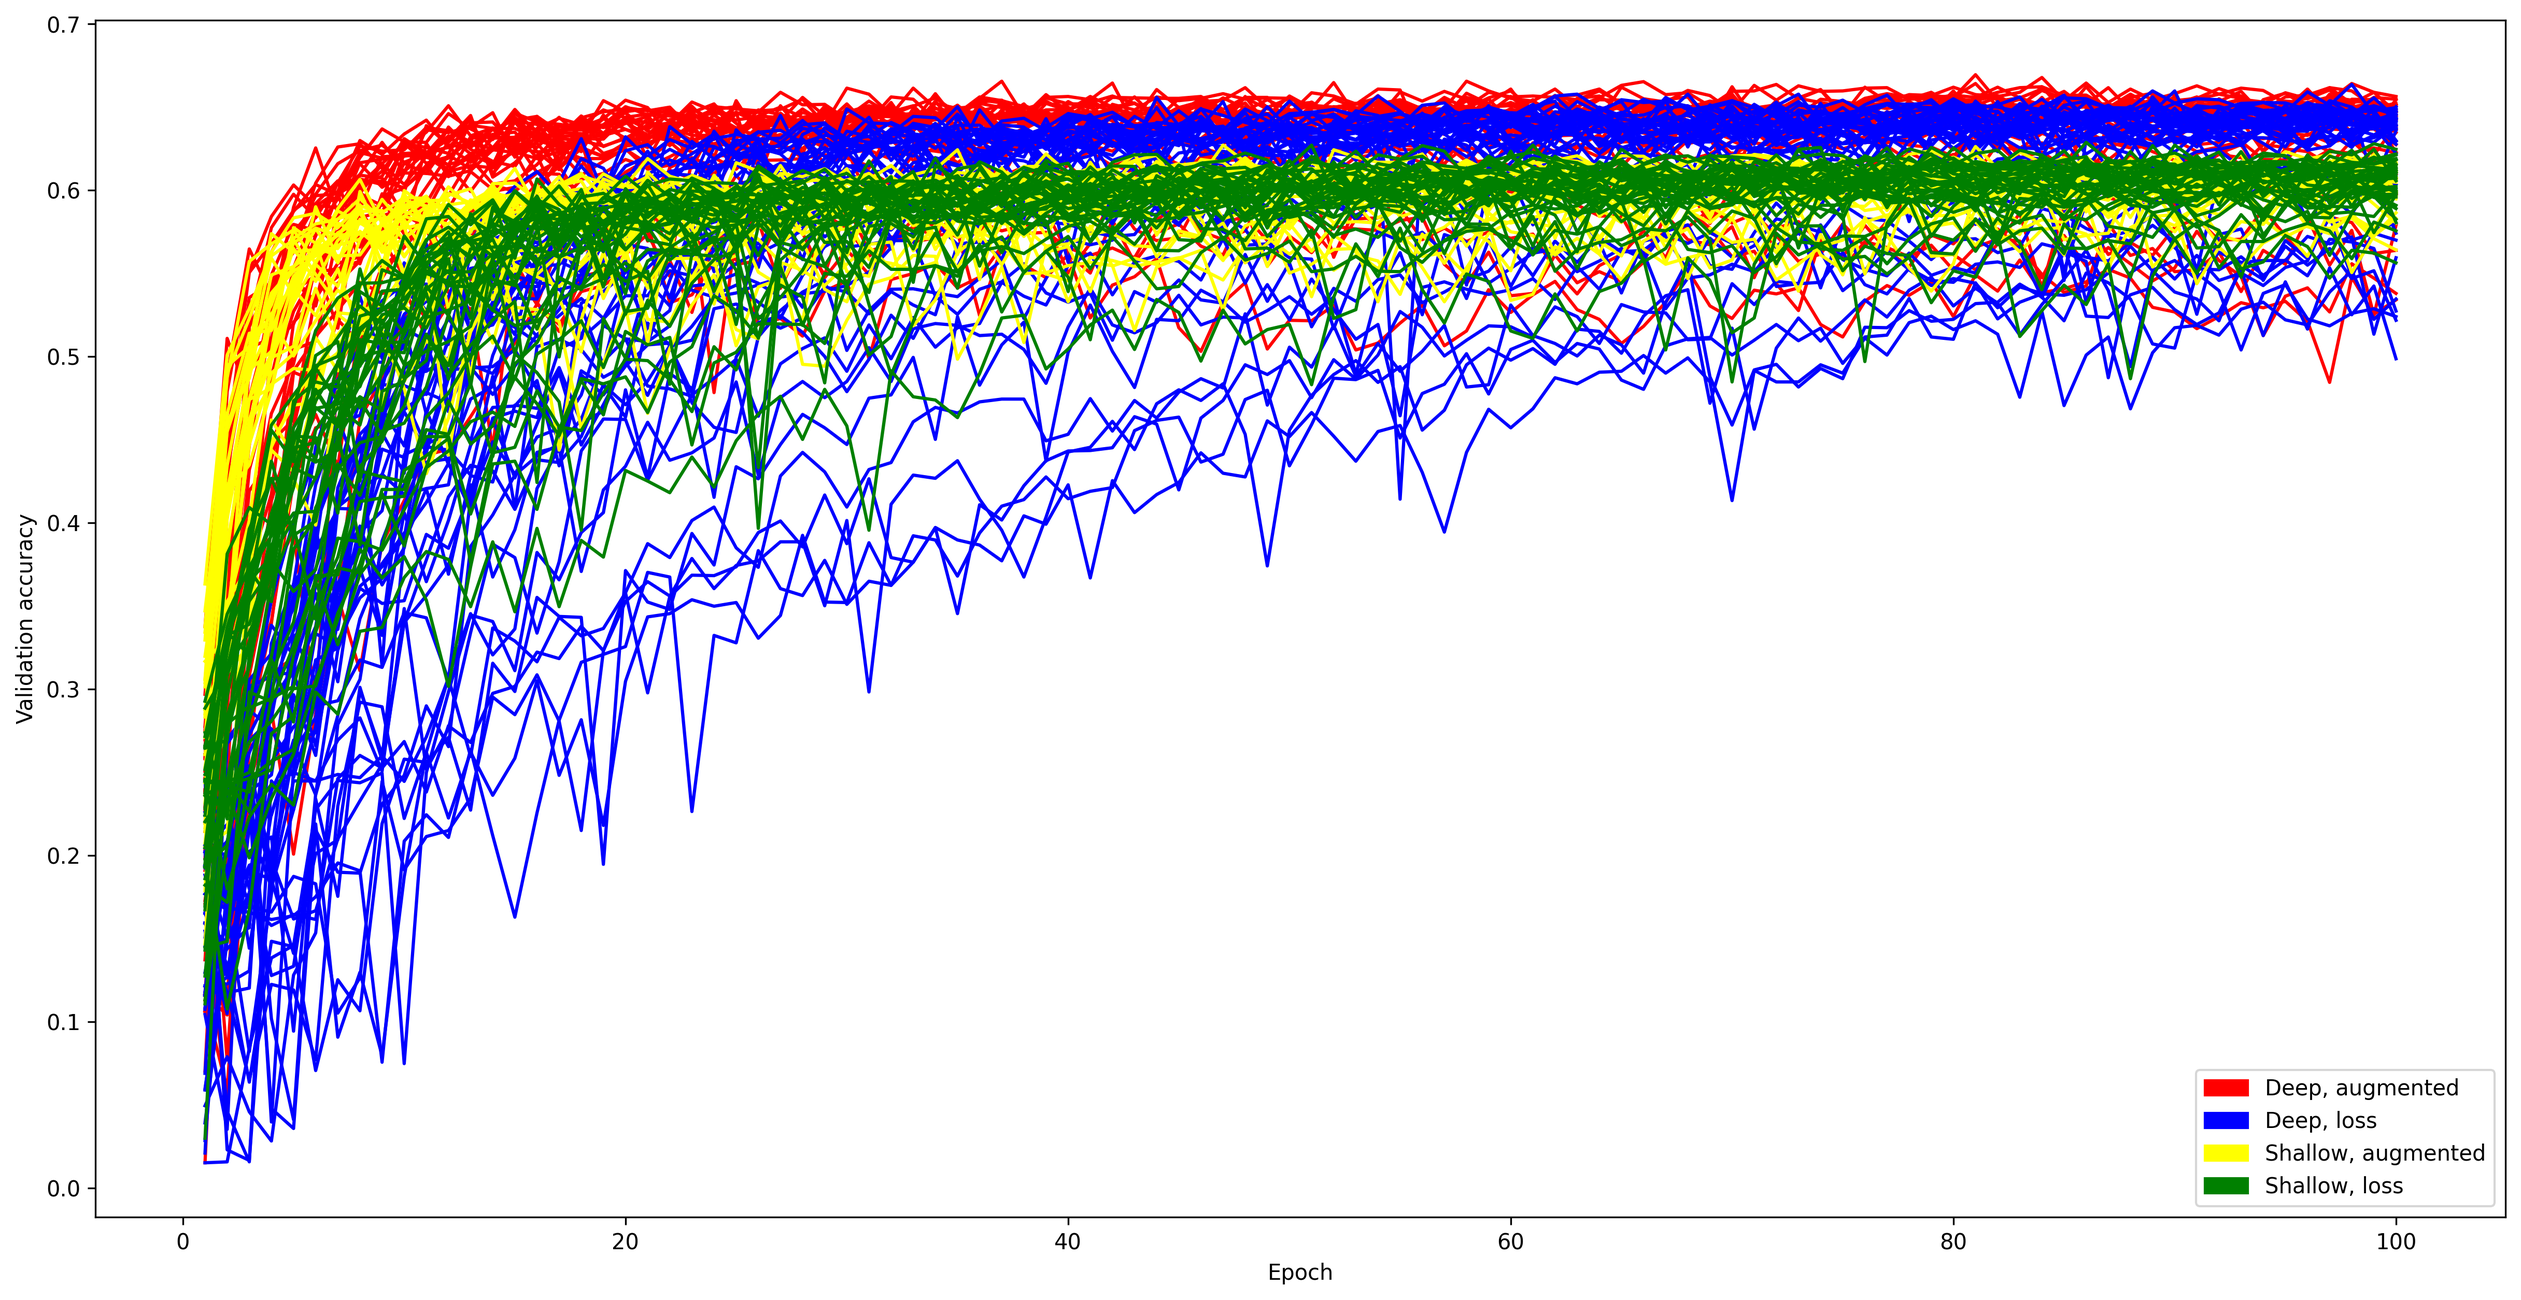
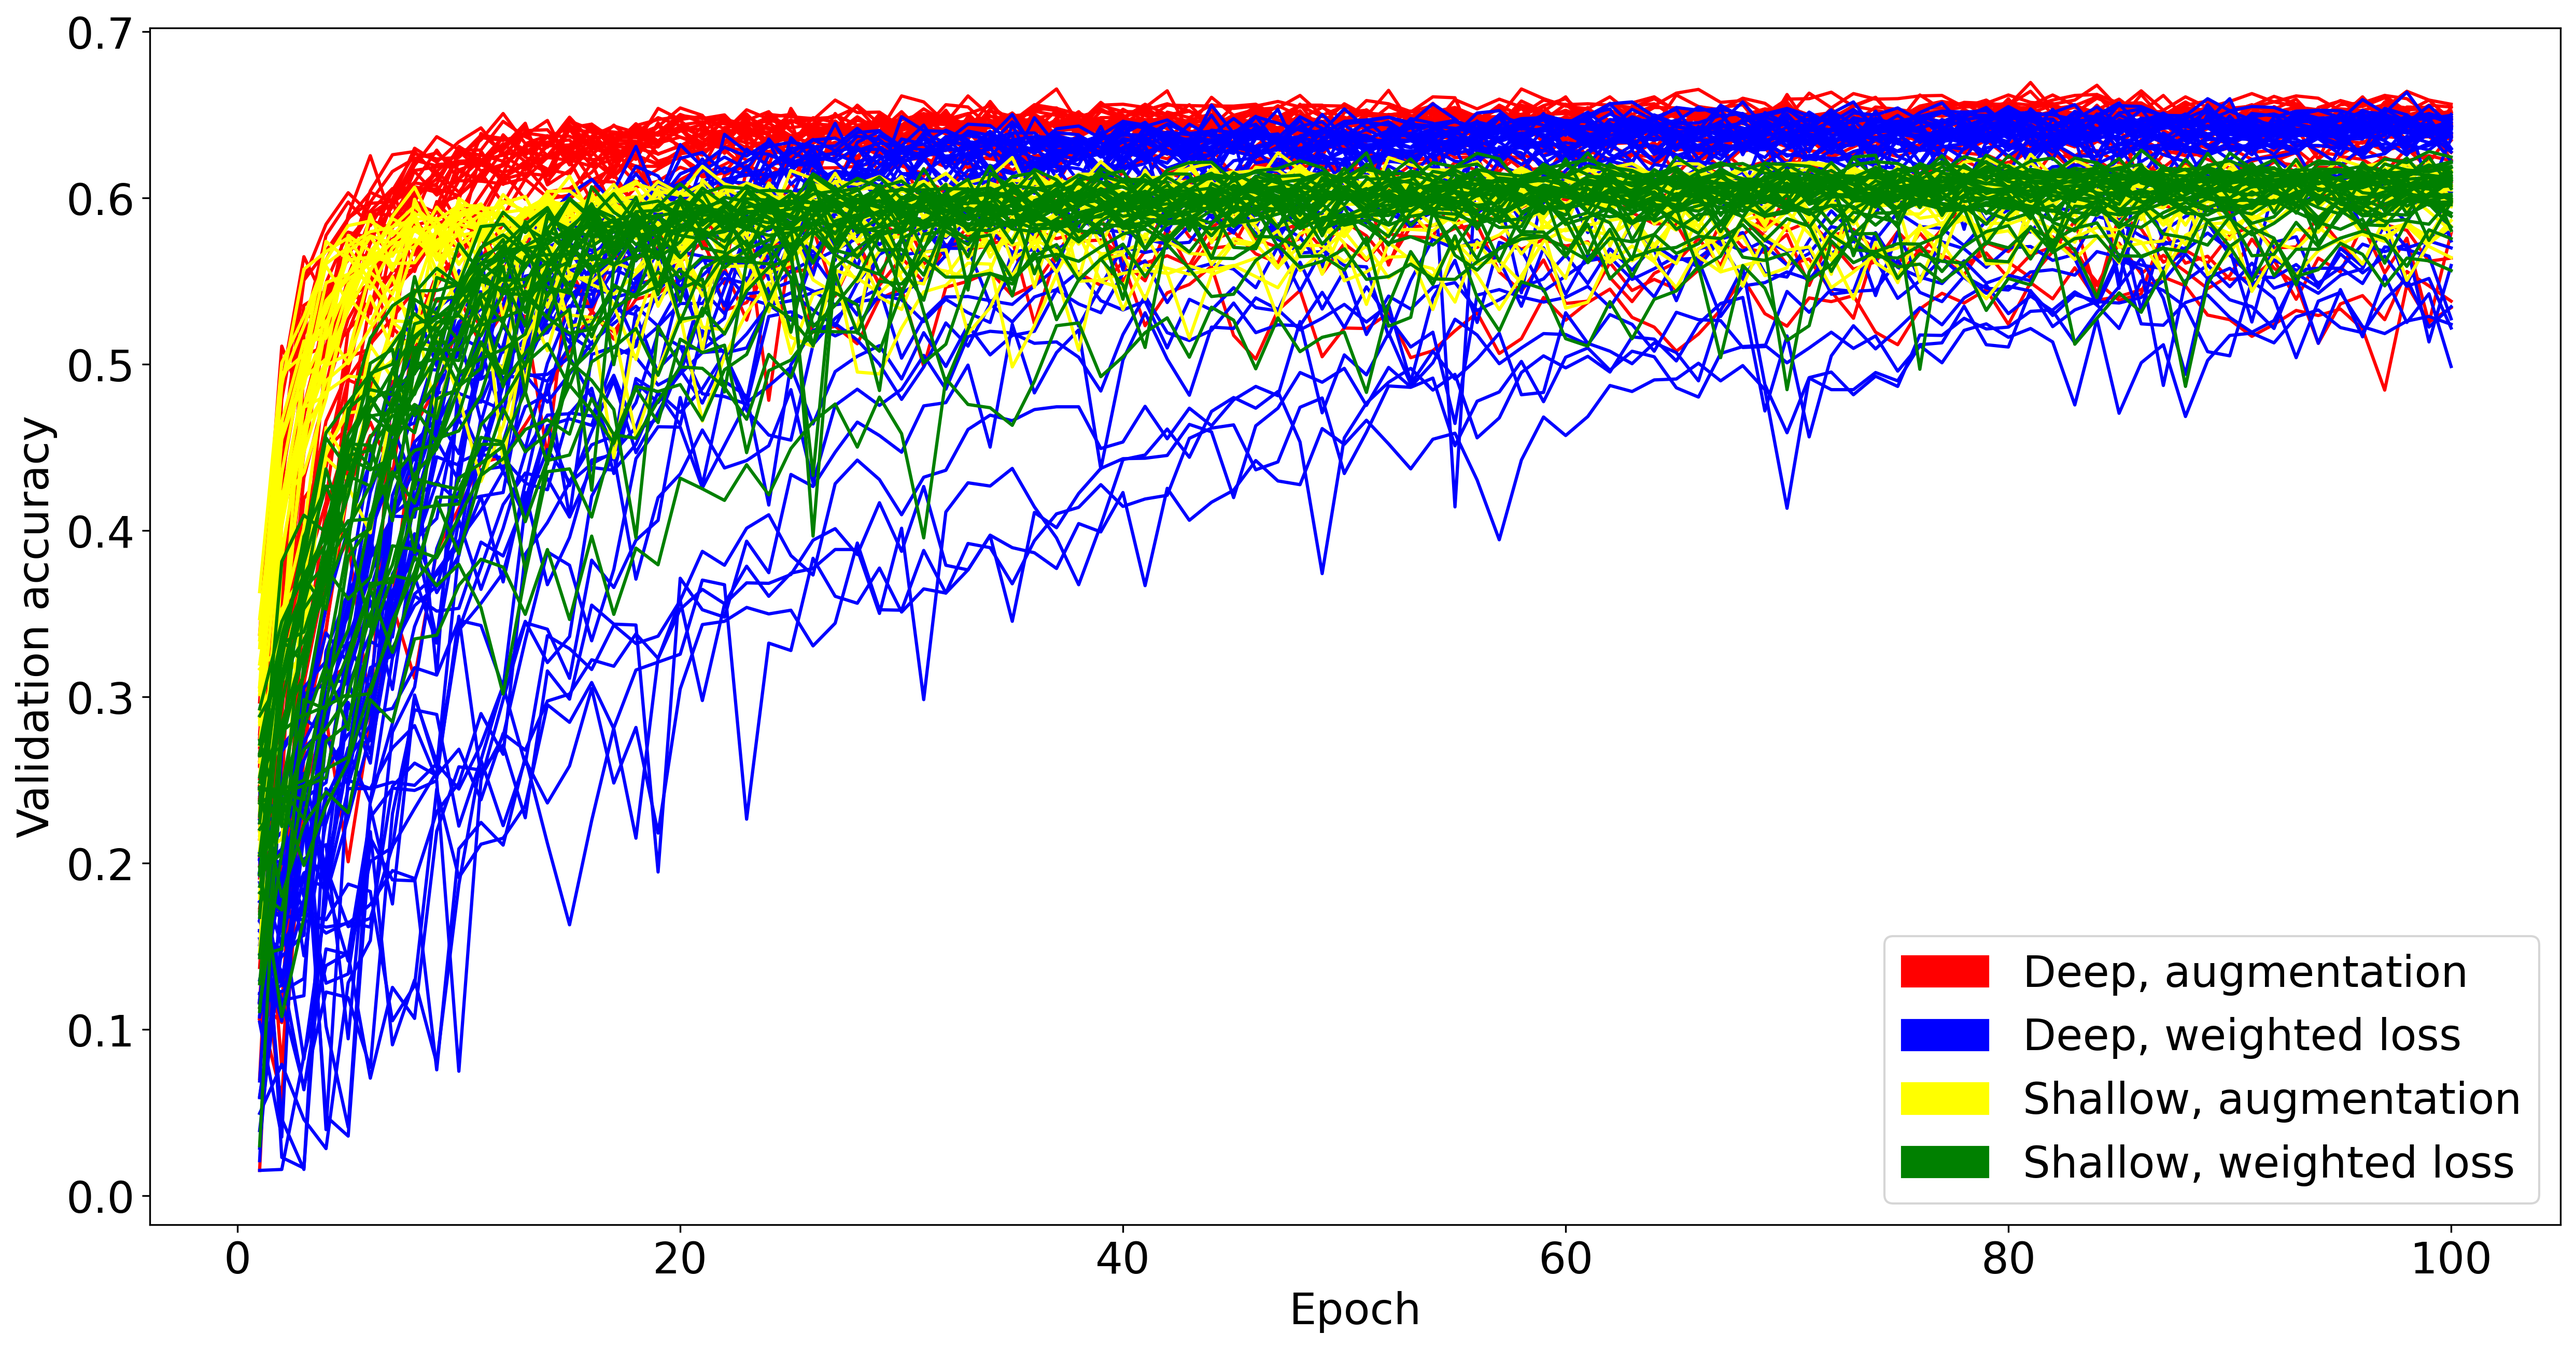
updated plotting

diff --git a/Utilities.py b/Utilities.py
@@ -11,6 +11,7 @@ from IPython.display import display
 #from Dataset import Dataset
 
 oneColumnFigureWidth = 10 # For latex
+twoColumnFigureWidth = 20 # For latex
 
 # def plotTrainValResults(history, folder, name):
 def plotTrainValResults(data, folder, name):
@@ -52,7 +53,7 @@ def plotTopOneConfusionMatrix(labelPrediction, labelTrue, labelsDict, fileName):
 
     # Plot confusion matrix
     plt.figure(figsize = (oneColumnFigureWidth, 5))
-    sn.set(font_scale=1.4)
+    sn.set(font_scale=2.0)
     sn.heatmap(matrixPandas, cmap = 'OrRd', annot=True, annot_kws={"size": 16}, fmt='.2f') # font size
     plt.savefig(fileName + ".png", dpi = 300, bbox_inches='tight')
 
@@ -77,10 +78,14 @@ def plotDatasetImages(fileName, images, labels = None):
     plt.clf() 
 
 def plotSummary(fileName, classNames, countsPerClass):
-    fig = plt.figure(figsize = (oneColumnFigureWidth, 5))
+    fontSize = 15
+    plt.figure(figsize = (oneColumnFigureWidth, 5))
     plt.bar(classNames, countsPerClass, width = 0.4)  
-    plt.xlabel("Emotions")
-    plt.ylabel("Number of samples")
+    plt.xticks(fontsize=fontSize)
+    plt.yticks(fontsize=fontSize)
+    #ax.tick_params(axis ='both', which ='both', labelsize = 20)
+    plt.xlabel("Emotions", fontsize=fontSize)
+    plt.ylabel("Number of samples",fontsize=fontSize)
     plt.savefig(fileName + ".png", dpi = 300, bbox_inches='tight')
     plt.close()
     plt.cla()
@@ -183,13 +188,16 @@ def plotTrainingResults(directory = "./TrainedModels"):
         plotTrainValResults(data, './figures/validationResults/',folder)
 
 def plotAllValidatonAccuracy(directory = "./TrainedModels"):
+    plt.figure(figsize = (twoColumnFigureWidth, 10))
+    fontSize = 20
     for folder in os.listdir(directory):
         data = np.load(directory + '/'+ folder + '/trainingHistory.npy')
         plt.plot(data[:,4])
-        plt.title('Validation accuracy')
-        plt.ylabel('accuracy')
-        plt.xlabel('epoch')
-        plt.legend(['Baseline Augmentation', 'Baseline Loss', 'Deep Augmentation', 'Deep Loss', 'Shallow Augmentation', 'Shallow Loss'], loc='lower right')
+        plt.ylabel('Validation accuracy', fontsize=fontSize)
+        plt.xlabel('Epoch',  fontsize=fontSize)
+        plt.legend(['Baseline, augmentation', 'Baseline, weighted loss', 'Deep, augmentation', 'Deep, weighted loss', 'Shallow, augmentation', 'Shallow, weighted loss'], loc='lower right', fontsize=fontSize)
+    plt.xticks(fontsize=fontSize)
+    plt.yticks(fontsize=fontSize)
     plt.savefig('./figures/validationResults/ValidationsAccuracy.png', dpi = 300, bbox_inches='tight')
     plt.close()
     plt.cla()
@@ -204,12 +212,14 @@ def plotTestResults(directory = "./TrainedModels"):
         print()
         print(folder)
         precisions = classPrecision(data[0], data[1])[:2]
+        meanClass = np.average(precisions[0])
+        print(meanClass)
         table = pd.DataFrame(precisions)
         display(table.transpose())
         #accuracy = topNAccuracy(data[0], data[1])
         #print(folder + ' top 1 and 2 class precision ' + str(precisions[:2]))
-        #plotTopOneConfusionMatrix(data[0], data[1], classLabels, "./figures/Results/confusionMatrix" + folder)
-
-# plotAllValidatonAccuracy()
-# plotTrainingResults()
-plotTestResults()
+        plotTopOneConfusionMatrix(data[0], data[1], classLabels, "./figures/Results/confusionMatrix" + folder)
+if __name__ == '__main__':
+    # plotAllValidatonAccuracy()
+    # plotTrainingResults()
+    plotTestResults()

diff --git a/PlotParameterSearchResults.py b/PlotParameterSearchResults.py
@@ -37,11 +37,11 @@ for index, filename in enumerate(os.listdir("./gridsearchResults")):
 
     axValAcc.plot(dataframe["Epoch"], dataframe["validation accuracy"], color=cmap[index])
     #axValLoss.plot(dataframe["Epoch"], dataframe["validation loss"], color=cmap[index])
-
-    patchOne = mpatches.Patch(color=cmap[0], label='Deep, augmented')
-    patchTwo = mpatches.Patch(color=cmap[1], label='Deep, loss')
-    patchThree = mpatches.Patch(color=cmap[2], label='Shallow, augmented')
-    patchFour = mpatches.Patch(color=cmap[3], label='Shallow, loss')
+    axValAcc.tick_params(axis ='both', which ='both', labelsize = 20)
+    patchOne = mpatches.Patch(color=cmap[0], label='Deep, augmentation')
+    patchTwo = mpatches.Patch(color=cmap[1], label='Deep, weighted loss')
+    patchThree = mpatches.Patch(color=cmap[2], label='Shallow, augmentation')
+    patchFour = mpatches.Patch(color=cmap[3], label='Shallow, weighted loss')
     
     found = False
     maxValAccuracy = round(dataframe["validation accuracy"].max(),3)
@@ -56,10 +56,10 @@ for index, filename in enumerate(os.listdir("./gridsearchResults")):
         resultArray[index] = maxValAccuracy
         maxValidationAccuracy.append(resultArray.copy())
 
-
-plt.legend(handles=[patchOne, patchTwo,patchThree,patchFour])
-plt.xlabel("Epoch")
-plt.ylabel("Validation accuracy")
+plt.legend(handles=[patchOne, patchTwo,patchThree,patchFour],fontsize=20)
+plt.xlabel("Epoch", fontsize=20)
+plt.tick_params('both')
+plt.ylabel("Validation accuracy", fontsize=20)
 plt.savefig('./figures/ParameterSearch/parameterSearchValidationAccuracies.png', dpi = 300, bbox_inches='tight')
 plt.close()
 plt.cla()
@@ -77,6 +77,7 @@ table['shallow, loss'] = maxValidationAccuracy[:,3]
 
 Utilities.tableToLatex(table)
 
+fontSize = 20
 fig = plt.figure(figsize=(20,20))
 for modelNumber in range(4):
     print('max validation accuracy is '+str(np.max(maxValidationAccuracy[:,modelNumber])))
@@ -84,18 +85,20 @@ for modelNumber in range(4):
     ax = fig.add_subplot(2, 2, modelNumber+1, projection='3d')
     indexMax = np.argmax(maxValidationAccuracy[:,modelNumber])
     ax.plot_trisurf(table['dropCNN'][nonZeroIndices], table['dropFC'][nonZeroIndices], maxValidationAccuracy[:,modelNumber][nonZeroIndices],cmap=cm.coolwarm)
+    ax.tick_params(axis ='both', which ='both', labelsize = fontSize)
     x = float(table['dropCNN'][indexMax])
     y=  float(table['dropFC'][indexMax])
     z=maxValidationAccuracy[:,modelNumber][indexMax]+0.002
     #ax.scatter(x,y,z,s=10**2)
     if modelNumber == 0: modelName = 'Deep, augmentation'
-    elif modelNumber == 1: modelName = 'Deep, loss'
+    elif modelNumber == 1: modelName = 'Deep, weighted loss'
     elif modelNumber == 2: modelName = 'Shallow, augmentation'
-    else: modelName = 'Shallow, loss'
-    ax.set_title(modelName)
-    ax.set_xlabel('Dropout CNN')
-    ax.set_ylabel('Dropout FC')
-    ax.set_zlabel('Validation accuracy')
+    else: modelName = 'Shallow, weighted loss'
+    ax.set_title(modelName, fontsize=fontSize)
+    ax.set_xlabel('Dropout CNN', fontsize=fontSize, labelpad=20)
+    ax.set_ylabel('Dropout FC', fontsize=fontSize, labelpad=20)
+    ax.set_zlabel('Validation accuracy', fontsize=fontSize, labelpad=20)
+    
     
 #ax.zaxis.set_major_locator(LinearLocator(10))
 #ax.zaxis.set_major_formatter(FormatStrFormatter('%.02f'))

diff --git a/Dataset.py b/Dataset.py
@@ -171,8 +171,8 @@ class Dataset:
 
 if __name__ == '__main__':
     dataset = Dataset()    
-    Utilities.plotDatasetImages("./figures/Dataset/datasetBalanced", dataset.balancedData, dataset.oneHotToLabel(dataset.balancedLabels))
-    Utilities.plotDatasetImages("./figures/Dataset/datasetSamples", dataset.trainingData, dataset.oneHotToLabel(dataset.trainingLabels))
-    wrongExamples = dataset.trainingData[[2810, 1775, 5882, 25647, 3928, 18337, 21275, 4961, 20312]]
-    Utilities.plotDatasetImages("./figures/Dataset/datasetWrong", wrongExamples)
-    #Utilities.plotSummary("./figures/Dataset/datasetBalance", list(dataset.classNames.values()), dataset.samplesPerClass(dataset.trainingLabels))
+    #Utilities.plotDatasetImages("./figures/Dataset/datasetBalanced", dataset.balancedData, dataset.oneHotToLabel(dataset.balancedLabels))
+    #Utilities.plotDatasetImages("./figures/Dataset/datasetSamples", dataset.trainingData, dataset.oneHotToLabel(dataset.trainingLabels))
+    #wrongExamples = dataset.trainingData[[2810, 1775, 5882, 25647, 3928, 18337, 21275, 4961, 20312]]
+    #Utilities.plotDatasetImages("./figures/Dataset/datasetWrong", wrongExamples)
+    Utilities.plotSummary("./figures/Dataset/datasetBalance", list(dataset.classNames.values()), dataset.samplesPerClass(dataset.trainingLabels))
